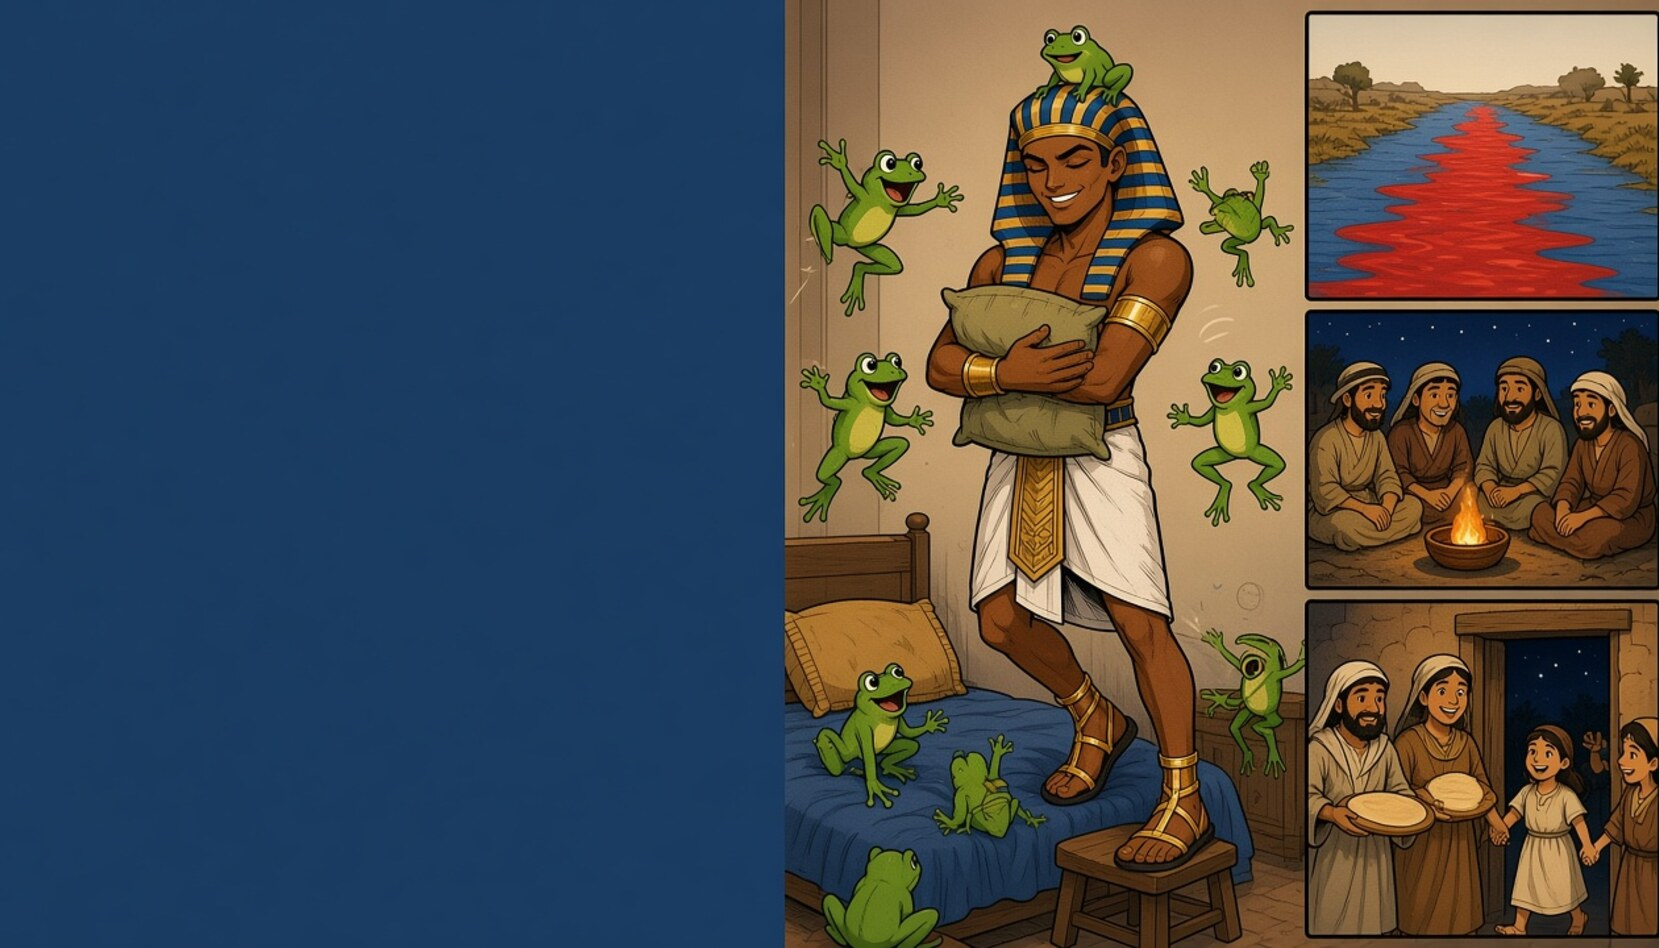
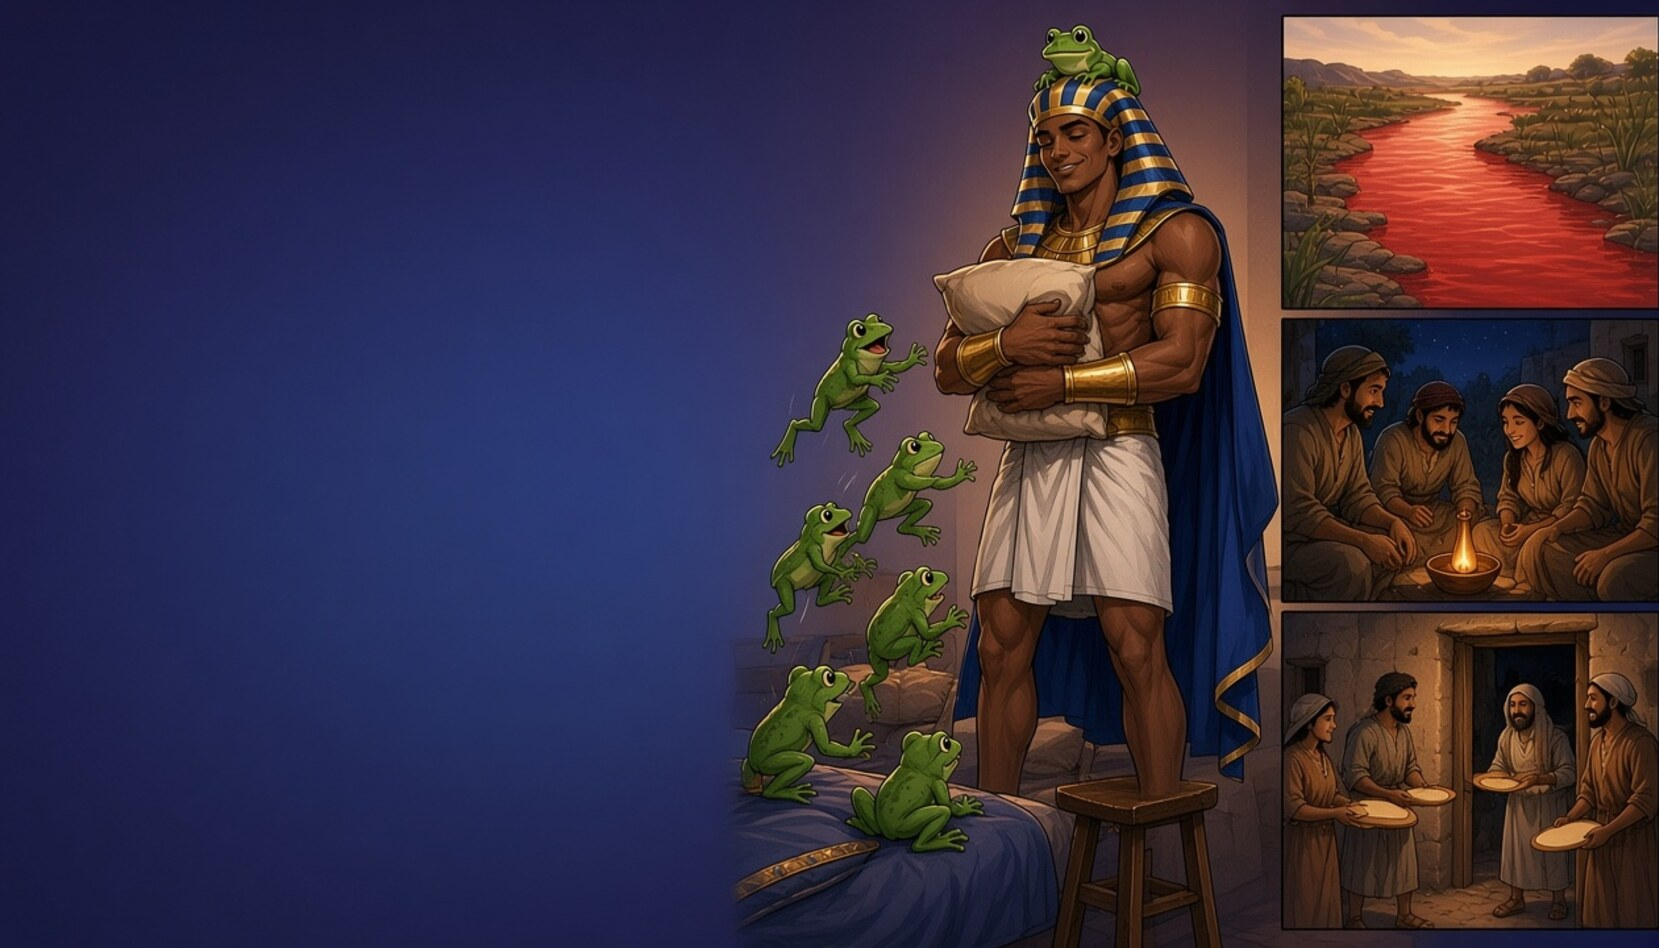
books: book 63 pictures in heroic comic style

diff --git a/precache-manifest.js b/precache-manifest.js
@@ -1,5 +1,5 @@
 // GENERATED by tools/build-precache.mjs - do not edit.
-self.ALEF_VERSION = "9ef09b784890";
+self.ALEF_VERSION = "10b9152a3c3e";
 self.ALEF_PRECACHE = [
  "index.html",
  "offline.html",
